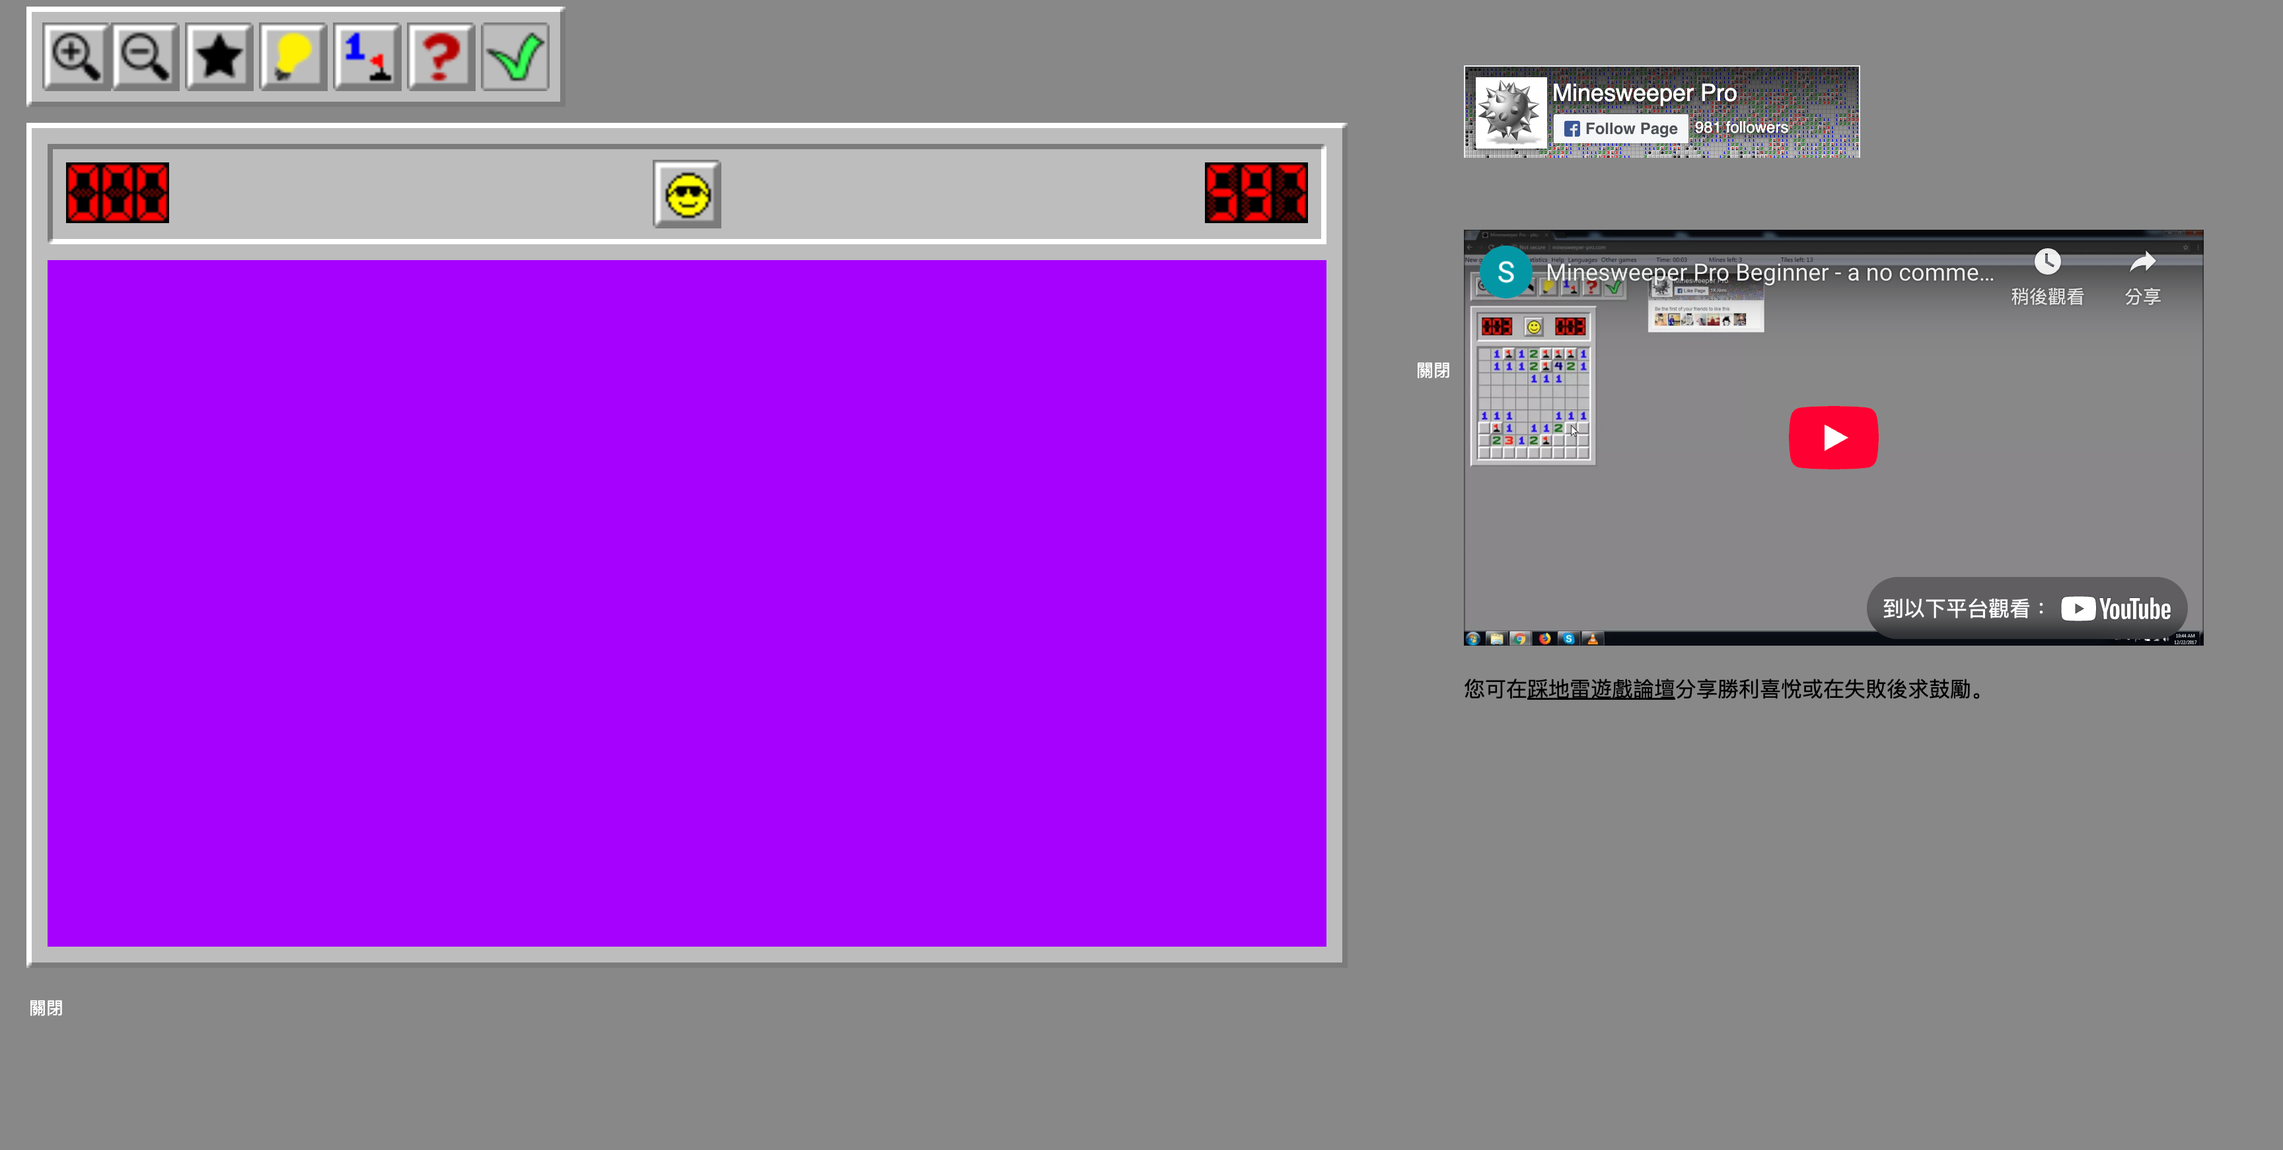
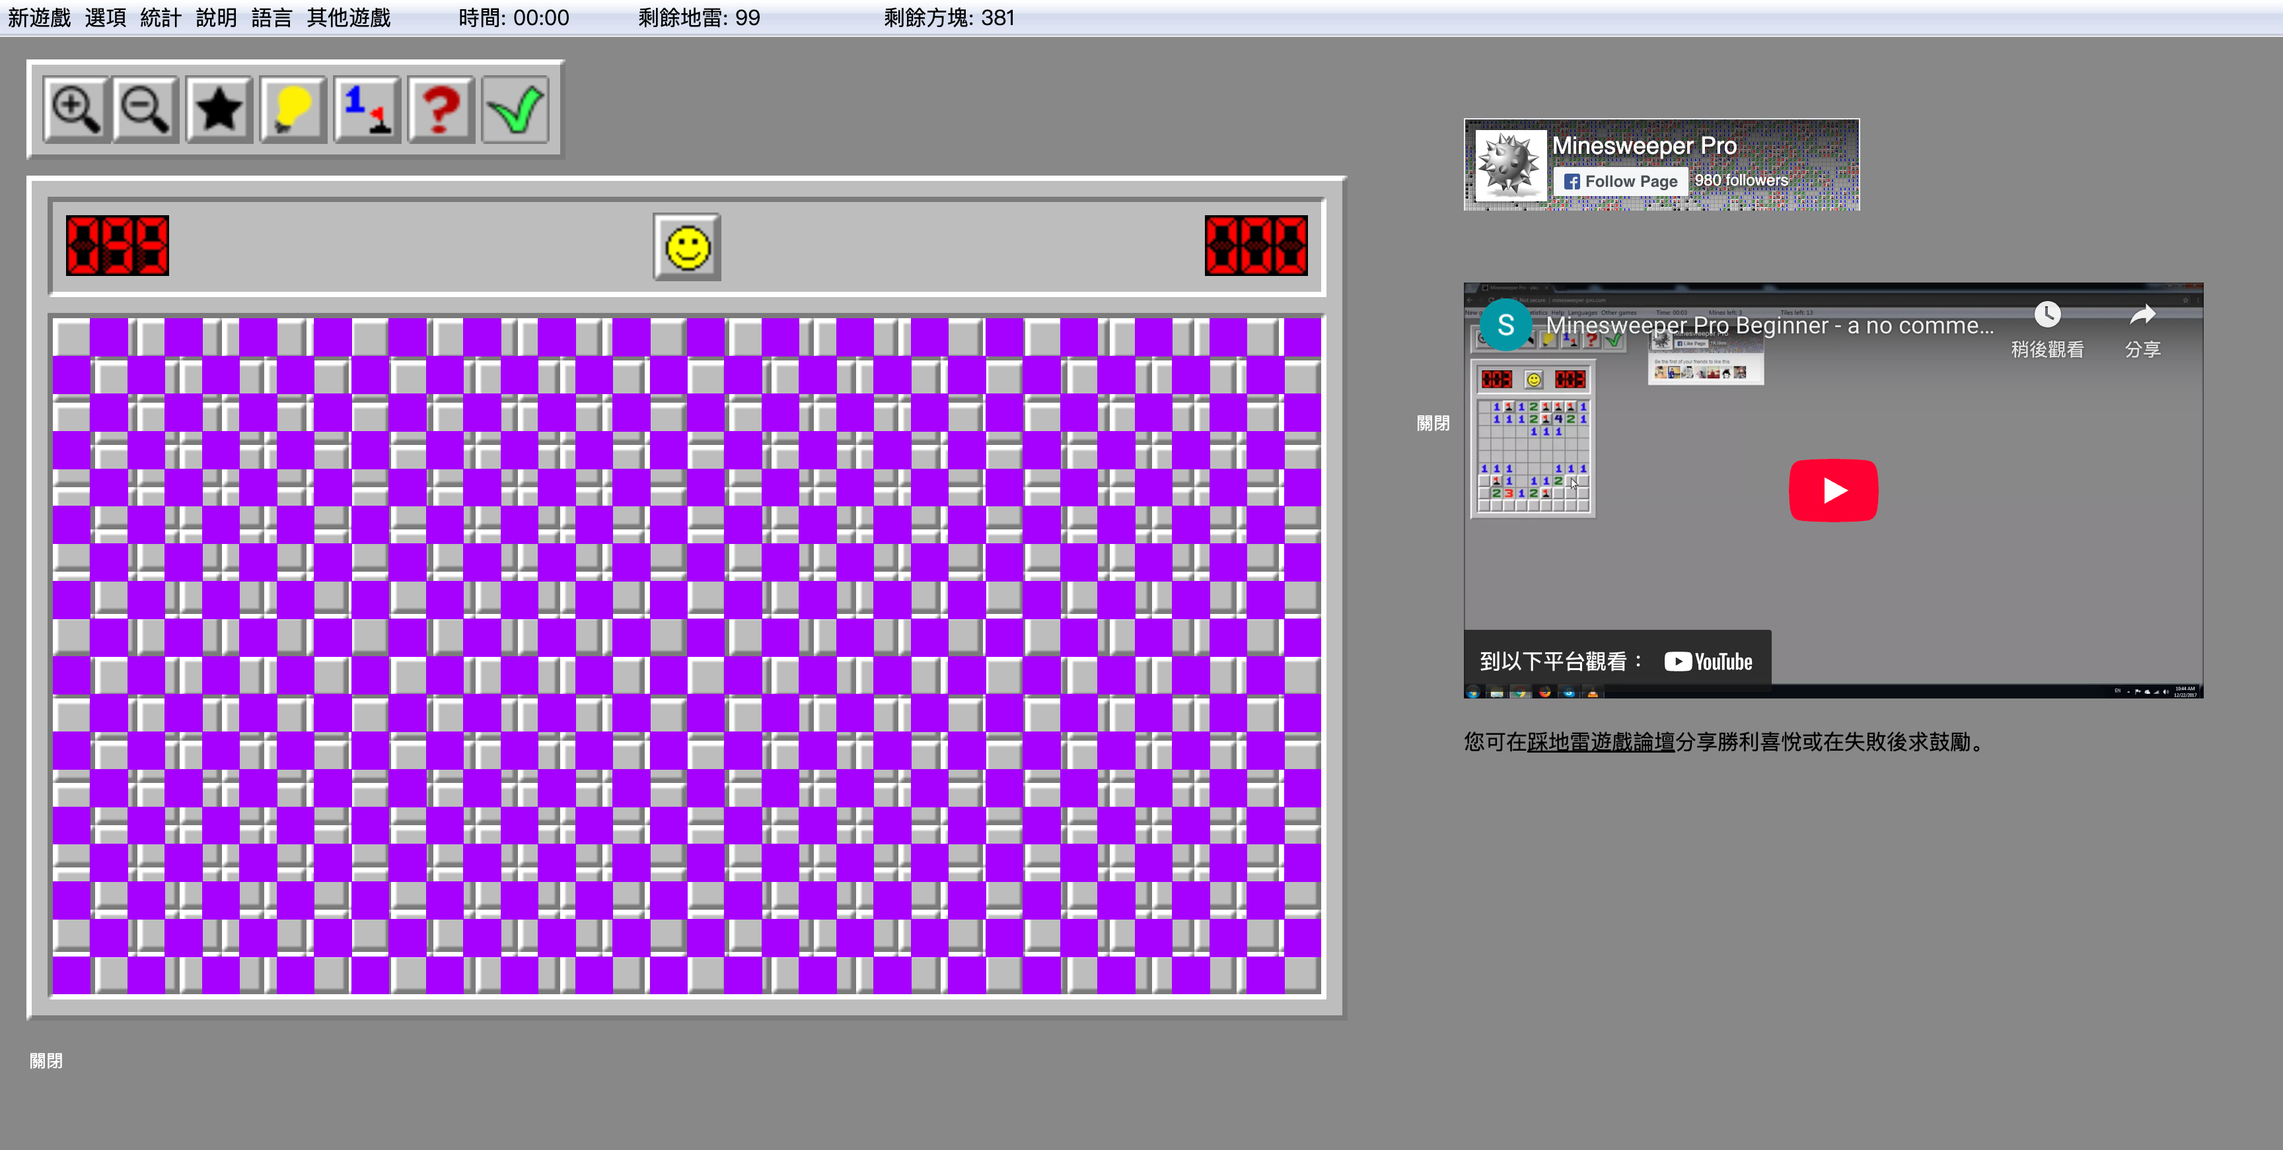
Update.

diff --git a/src/MinesweeperScanner.java b/src/MinesweeperScanner.java
@@ -1,23 +1,27 @@
 import java.util.ArrayList;
+import java.util.Arrays;
 import java.util.Stack;
 
 public class MinesweeperScanner {
     static final int neighborhood[][] = {{-1, -1}, {-1, 0}, {-1, 1}, {0, -1}, {0, 1}, {1, -1}, {1, 0}, {1, 1}};
     public static final int panel_background[][] = {{189, 189, 189}};
     public static final int digits_boards_background[][] = {{0, 0, 0}};
+    public static final int digits_color[][] = {{255, 0, 0}};
     public static final int board_border[][] = {{131, 131, 131}, {255, 255, 255}};
+    public static final int split_grid_line[][] = {{130, 130, 130}};
+    public static final int number_to_compute_average_grid_size = 10;
 
     public static boolean rgb_equal(int rgb_1[], int rgb_2[]) {
         return rgb_1[0] == rgb_2[0] && rgb_1[1] == rgb_2[1] && rgb_1[2] == rgb_2[2];
     }
 
-    public static boolean rgb_similar(int rgb_1[], int rgb_2[]) {
+    public static boolean rgb_similar(int rgb_1[], int rgb_2[], double threshold) {
         int R = rgb_1[0] - rgb_2[0];
         int G = rgb_1[1] - rgb_2[1];
         int B = rgb_1[2] - rgb_2[2];
         double rmean = (rgb_1[0] + rgb_2[0]) / 2.0;
         double distance = Math.sqrt((2 + rmean / 256) * (R * R) + 4 * (G * G) + (2 + (255 - rmean) / 256) * (B * B));
-        return distance < 50.0;
+        return distance <= threshold;
     }
 
     public static boolean rgb_equal_to_any(int rgb[], int colors[][]) {
@@ -29,9 +33,9 @@ public class MinesweeperScanner {
         return false;
     }
 
-    public static boolean rgb_similar_to_any(int rgb[], int colors[][]) {
+    public static boolean rgb_similar_to_any(int rgb[], int colors[][], double threshold) {
         for (int i = 0; i < colors.length; ++i) {
-            if (rgb_similar(rgb, colors[i])) {
+            if (rgb_similar(rgb, colors[i], threshold)) {
                 return true;
             }
         }
@@ -60,7 +64,7 @@ public class MinesweeperScanner {
         }
     }
 
-    public static void dfs_similar_color(int map[][][], boolean past[][], ArrayList<int[]> block, int i, int j, int width_l, int width_r, int height_l, int height_r, int colors[][]) {
+    public static void dfs_similar_color(int map[][][], boolean past[][], ArrayList<int[]> block, int i, int j, int width_l, int width_r, int height_l, int height_r, int colors[][], double threshold) {
         Stack<int[]> stack = new Stack<>();
         stack.push(new int[]{i, j});
         past[i][j] = true;
@@ -68,7 +72,7 @@ public class MinesweeperScanner {
             int top[] = stack.pop();
             i = top[0];
             j = top[1];
-            if (rgb_similar_to_any(map[i][j], colors)) {
+            if (rgb_similar_to_any(map[i][j], colors, threshold)) {
                 block.add(new int[]{i, j});
                 for (int[] vector : neighborhood) {
                     int new_i = i + vector[0];
@@ -88,9 +92,9 @@ public class MinesweeperScanner {
         return block.isEmpty() ? null : block;
     }
 
-    public static ArrayList<int[]> find_similar_colors_block(int map[][][], boolean past[][], int i, int j, int width_l, int width_r, int height_l, int height_r, int colors[][]) {
+    public static ArrayList<int[]> find_similar_colors_block(int map[][][], boolean past[][], int i, int j, int width_l, int width_r, int height_l, int height_r, int colors[][], double threshold) {
         ArrayList<int[]> block = new ArrayList<>();
-        dfs_similar_color(map, past, block, i, j, width_l, width_r, height_l, height_r, colors);
+        dfs_similar_color(map, past, block, i, j, width_l, width_r, height_l, height_r, colors, threshold);
         return block.isEmpty() ? null : block;
     }
 
@@ -113,7 +117,7 @@ public class MinesweeperScanner {
         return blocks;
     }
 
-    public static ArrayList<ArrayList<int[]>> find_similar_color_blocks(int map[][][], int width_l, int width_r, int height_l, int height_r, int colors[][]) {
+    public static ArrayList<ArrayList<int[]>> find_similar_color_blocks(int map[][][], int width_l, int width_r, int height_l, int height_r, int colors[][], double threshold) {
         assert colors != null && colors[0] != null && colors[0].length == 3;
         assert map != null && map.length > 0 && map[0] != null && map[0].length > 0 && map[0][0] != null && map[0][0].length == 3;
         assert width_l >= 0 && width_r >= 0 && height_l >= 0 && height_r >= 0;
@@ -123,7 +127,7 @@ public class MinesweeperScanner {
         ArrayList<ArrayList<int[]>> blocks = new ArrayList<>();
         for (int i = width_l; i < width_r; ++i) {
             for (int j = height_l; j < height_r; ++j) {
-                ArrayList<int[]> block = find_similar_colors_block(map, past, i, j, width_l, width_r, height_l, height_r, colors);
+                ArrayList<int[]> block = find_similar_colors_block(map, past, i, j, width_l, width_r, height_l, height_r, colors, threshold);
                 if (block != null) {
                     blocks.add(block);
                 }
@@ -134,7 +138,7 @@ public class MinesweeperScanner {
 
     public static int[] find_panel_coordinates(ScreenData screen) {
         assert screen != null;
-        ArrayList<ArrayList<int[]>> blocks = find_similar_color_blocks(screen.rgb_array, 0, screen.width, 0, screen.height, panel_background);
+        ArrayList<ArrayList<int[]>> blocks = find_similar_color_blocks(screen.rgb_array, 0, screen.width, 0, screen.height, panel_background, 50);
         int max_area = 0;
         int width_l = 0, width_r = screen.width, height_l = 0, height_r = screen.height;
         for (int i = 0; i < blocks.size(); ++i) {
@@ -160,15 +164,10 @@ public class MinesweeperScanner {
     public static int[] find_remaining_mines_and_times_coordinates(ScreenData screen, int panel_coordinates[]) {
         assert screen != null && panel_coordinates != null && panel_coordinates.length == 4;
         assert panel_coordinates[0] < panel_coordinates[1] && panel_coordinates[2] < panel_coordinates[3];
-        ArrayList<ArrayList<int[]>> blocks = find_similar_color_blocks(screen.rgb_array, panel_coordinates[0], panel_coordinates[1], panel_coordinates[2], panel_coordinates[3], digits_boards_background);
+        ArrayList<ArrayList<int[]>> blocks = find_similar_color_blocks(screen.rgb_array, panel_coordinates[0], panel_coordinates[1], panel_coordinates[2], panel_coordinates[3], digits_boards_background, 50);
         int max_area_1 = 0, max_area_2 = 0;
         int width_l_1 = panel_coordinates[0], width_r_1 = panel_coordinates[1], height_l_1 = panel_coordinates[2], height_r_1 = panel_coordinates[3];
         int width_l_2 = panel_coordinates[0], width_r_2 = panel_coordinates[1], height_l_2 = panel_coordinates[2], height_r_2 = panel_coordinates[3];
-//        ArrayList<Integer> block_areas = new ArrayList<>();
-//        ArrayList<Integer> w_ls = new ArrayList<>();
-//        ArrayList<Integer> w_rs = new ArrayList<>();
-//        ArrayList<Integer> h_ls = new ArrayList<>();
-//        ArrayList<Integer> h_rs = new ArrayList<>();
         for (int i = 0; i < blocks.size(); ++i) {
             int w_l = Integer.MAX_VALUE, w_r = 0, h_l = Integer.MAX_VALUE, h_r = 0;
             for (int j = 0; j < blocks.get(i).size(); ++j) {
@@ -178,11 +177,6 @@ public class MinesweeperScanner {
                 h_r = Math.max(h_r, blocks.get(i).get(j)[1] + 1);
             }
             int block_area = (w_r - w_l) * (h_r - h_l);
-//            block_areas.add(block_area);
-//            w_ls.add(w_l);
-//            w_rs.add(w_r);
-//            h_ls.add(h_l);
-//            h_rs.add(h_r);
             if (max_area_2 < block_area) {
                 if (max_area_1 < block_area) {
                     width_l_2 = width_l_1;
@@ -204,20 +198,12 @@ public class MinesweeperScanner {
                 }
             }
         }
-//        block_areas.sort((a, b) -> b - a);
-//        for (int i = 1; i < block_areas.size(); ++i) {
-//            System.out.println(block_areas.get(i));
-//            if (block_areas.get(i).equals(block_areas.get(i - 1))) {
-//                return new int[]{w_ls.get(i - 1), w_rs.get(i - 1), h_ls.get(i - 1), h_rs.get(i - 1), w_ls.get(i), w_rs.get(i), h_ls.get(i), h_rs.get(i)};
-//            }
-//        }
         return new int[]{width_l_1, width_r_1, height_l_1, height_r_1, width_l_2, width_r_2, height_l_2, height_r_2};
-//        return null;
     }
 
     public static int[] find_board_coordinates(ScreenData screen, int panel_coordinates[]) {
         assert screen != null;
-        ArrayList<ArrayList<int[]>> blocks = find_similar_color_blocks(screen.rgb_array, panel_coordinates[0], panel_coordinates[1], panel_coordinates[2], panel_coordinates[3], board_border);
+        ArrayList<ArrayList<int[]>> blocks = find_similar_color_blocks(screen.rgb_array, panel_coordinates[0], panel_coordinates[1], panel_coordinates[2], panel_coordinates[3], board_border, 50);
         int max_area = 0;
         int width_l = 0, width_r = screen.width, height_l = 0, height_r = screen.height;
         for (int i = 0; i < blocks.size(); ++i) {
@@ -240,35 +226,127 @@ public class MinesweeperScanner {
                 max_area = block_area;
             }
         }
+        boolean map[][] = new boolean[width_r - width_l + 1][height_r - height_l + 1];
+        for (int i = 0; i < map.length; ++i) {
+            Arrays.fill(map[i], true);
+        }
+        for (int i = 0; i < map.length; ++i) {
+            for (int j = 0; j < map[0].length; ++j) {
+                if (rgb_similar(screen.rgb_array[width_r - i][height_r - j], screen.rgb_array[width_r-1][height_r-1],50)) {
+                    map[i][j] = false;
+                }
+            }
+        }
+        int max_side_lengths[][] = find_max_side_lengths(map, 0, 2, 0, 2);
+        width_l += max_side_lengths[1][1];
+        width_r -= max_side_lengths[1][1];
+        height_l += max_side_lengths[1][1];
+        height_r -= max_side_lengths[1][1];
+        return new int[]{width_l, width_r, height_l, height_r};
+    }
+
+    public static boolean side_length_augmentable(boolean map[][], int i, int j, int side_length) {
+        if (i + side_length > map.length || j + side_length > map[0].length) {
+            return false;
+        }
+        for (int k = i; k < i + side_length; ++k) {
+            if (map[k][j + side_length - 1]) {
+                return false;
+            }
+        }
+        for (int k = j; k < j + side_length - 1; ++k) {
+            if (map[i + side_length - 1][k]) {
+                return false;
+            }
+        }
+        return true;
+    }
+
+    public static int[][] find_max_side_lengths(boolean map[][], int start_i, int end_i, int start_j, int end_j) {
+        assert map != null && map.length > 0 && map[0] != null && map[0].length > 0;
+        assert start_i >= 0 && start_i < map.length;
+        assert end_i >= start_i && end_i <= map.length;
+        assert start_j >= 0 && start_j < map[0].length;
+        assert end_j >= start_j && end_j <= map[0].length;
+        int max_side_lengths[][] = new int[map.length][map[0].length];
+        for (int i = start_i; i < end_i; ++i) {
+            for (int j = start_j; j < end_j; ++j) {
+                if (!map[i][j]) {
+                    int side_length = Math.max(1, max_side_lengths[i][j]);
+                    while (side_length_augmentable(map, i, j, side_length + 1)) {
+                        ++side_length;
+                    }
+                    for (int k = i; k < i + side_length; ++k) {
+                        for (int l = j; l < j + side_length; ++l) {
+                            max_side_lengths[k][l] = Math.max(max_side_lengths[k][l], side_length - Math.max(k - i, l - j));
+                        }
+                    }
+                }
+            }
+        }
+        return max_side_lengths;
+    }
+
+    public static int[] find_grid_size_abandoned(ScreenData screen, int board_coordinates[]) {
+        assert screen != null;
+        ArrayList<ArrayList<int[]>> blocks = find_similar_color_blocks(screen.rgb_array, board_coordinates[0], board_coordinates[1], board_coordinates[2], board_coordinates[3], split_grid_line, 50);
+        boolean map[][] = new boolean[board_coordinates[1] - board_coordinates[0] + 1][board_coordinates[3] - board_coordinates[2] + 1];
+        for (int i = 0; i < blocks.size(); ++i) {
+            for (int j = 0; j < blocks.get(i).size(); ++j) {
+                map[blocks.get(i).get(j)[0] - board_coordinates[0]][blocks.get(i).get(j)[1] - board_coordinates[2]] = true;
+            }
+        }
+        int max_side_lengths[][] = find_max_side_lengths(map, 0, board_coordinates[1] - board_coordinates[0] + 1, 0, board_coordinates[3] - board_coordinates[2] + 1);
+        ArrayList<Integer> side_lengths = new ArrayList<>();
+        for (int i = 0; i < max_side_lengths.length; ++i) {
+            for (int j = 0; j < max_side_lengths[0].length; ++j) {
+                if (max_side_lengths[i][j] > 0) {
+                    side_lengths.add(max_side_lengths[i][j]);
+                }
+            }
+        }
+        side_lengths.sort((a, b) -> b - a);
+        int side_lengths_sum = 0;
+        for (int i = 0; i < number_to_compute_average_grid_size; ++i) {
+            side_lengths_sum += side_lengths.get(i);
+            System.out.println("Side Length: " + side_lengths.get(i));
+        }
+        int avg_side_length = side_lengths_sum / number_to_compute_average_grid_size;
+        int width_n = (int) Math.round((board_coordinates[1] - board_coordinates[0]) / (double) avg_side_length);
+        int height_n = (int) Math.round((board_coordinates[3] - board_coordinates[2]) / (double) avg_side_length);
+        return new int[]{width_n, height_n};
+    }
+
+    public static int[] get_grid_coordinates(int board_coordinates[], int grid_size[], int i, int j) {
+        int width_l = (int) Math.round(board_coordinates[0] + i * (board_coordinates[1] - board_coordinates[0]) / (double) grid_size[0]);
+        int width_r = (int) Math.round(board_coordinates[0] + (i + 1) * (board_coordinates[1] - board_coordinates[0]) / (double) grid_size[0]);
+        int height_l = (int) Math.round(board_coordinates[2] + j * (board_coordinates[3] - board_coordinates[2]) / (double) grid_size[1]);
+        int height_r = (int) Math.round(board_coordinates[2] + (j + 1) * (board_coordinates[3] - board_coordinates[2]) / (double) grid_size[1]);
+        if (width_r >= board_coordinates[1]) {
+            --width_r;
+        }
+        if (height_r >= board_coordinates[3]) {
+            --height_r;
+        }
         return new int[]{width_l, width_r, height_l, height_r};
     }
 
     public static MinesweeperState scan(ScreenData screen) {
         int panel_coordinates[] = find_panel_coordinates(screen);
-//        for (int i = panel_coordinates[0]; i < panel_coordinates[1]; ++i) {
-//            for (int j = panel_coordinates[2]; j < panel_coordinates[3]; ++j) {
-//                screen.rgb_array[i][j] = new int[]{166, 0, 255};
-//            }
-//        }
         int remaining_mines_and_times_coordinates[] = find_remaining_mines_and_times_coordinates(screen, panel_coordinates);
-//        assert remaining_mines_and_times_coordinates != null;
-//        for (int i : remaining_mines_and_times_coordinates) {
-//            System.out.println(i);
-//        }
-//        for (int i = remaining_mines_and_times_coordinates[0]; i < remaining_mines_and_times_coordinates[1]; ++i) {
-//            for (int j = remaining_mines_and_times_coordinates[2]; j < remaining_mines_and_times_coordinates[3]; ++j) {
-//                screen.rgb_array[i][j] = new int[]{166, 0, 255};
-//            }
-//        }
-//        for (int i = remaining_mines_and_times_coordinates[4]; i < remaining_mines_and_times_coordinates[5]; ++i) {
-//            for (int j = remaining_mines_and_times_coordinates[6]; j < remaining_mines_and_times_coordinates[7]; ++j) {
-//                screen.rgb_array[i][j] = new int[]{166, 0, 255};
-//            }
-//        }
         int board_coordinates[] = find_board_coordinates(screen, panel_coordinates);
-        for (int i = board_coordinates[0]; i < board_coordinates[1]; ++i) {
-            for (int j = board_coordinates[2]; j < board_coordinates[3]; ++j) {
-                screen.rgb_array[i][j] = new int[]{166, 0, 255};
+        int grid_size[] = find_grid_size_abandoned(screen, board_coordinates);
+        System.out.print("Game Settings: Width: " + grid_size[0] + " Height: " + grid_size[1] + '\n');
+        for (int i = 0; i < grid_size[0]; ++i) {
+            for (int j = 0; j < grid_size[1]; ++j) {
+                if ((i + j) % 2 == 1) {
+                    int grid_coordinates[] = get_grid_coordinates(board_coordinates, grid_size, i, j);
+                    for (int k = grid_coordinates[0]; k <= grid_coordinates[1]; ++k) {
+                        for (int l = grid_coordinates[2]; l <= grid_coordinates[3]; ++l) {
+                            screen.rgb_array[k][l] = new int[]{166, 0, 255};
+                        }
+                    }
+                }
             }
         }
         ScreenCapture.save_screen_to_file(screen, "screen.png", "png");
@@ -276,15 +354,12 @@ public class MinesweeperScanner {
     }
 
     public static void main(String[] args) {
-        ScreenData screen = ScreenCapture.load_screen_from_file("/Users/caiyufei/Downloads/FireShot/踩地雷/進階1.png");
-//        for (int i = 0; i < screen.width; ++i) {
-//            for (int j = 0; j < screen.height; ++j) {
-//                if (rgb_similar(panel_background, screen.rgb_array[i][j])) {
-//                    screen.rgb_array[i][j] = new int[]{166, 0, 255};
-//                }
-//            }
-//        }
-//        ScreenCapture.save_screen_to_file(screen, "screen.png", "png");
+        ScreenData screen = ScreenCapture.load_screen_from_file("./test_images/empty.png");
+//        ScreenData screen = ScreenCapture.load_screen_from_file("./test_images/empty_xp.png");
+//        ScreenData screen = ScreenCapture.load_screen_from_file("./test_images/process.png");
+//        ScreenData screen = ScreenCapture.load_screen_from_file("./test_images/process_xp.png");
+//        ScreenData screen = ScreenCapture.load_screen_from_file("./test_images/final.png");
+//        ScreenData screen = ScreenCapture.load_screen_from_file("./test_images/final_xp.png");
         MinesweeperState state = scan(screen);
     }
 }
